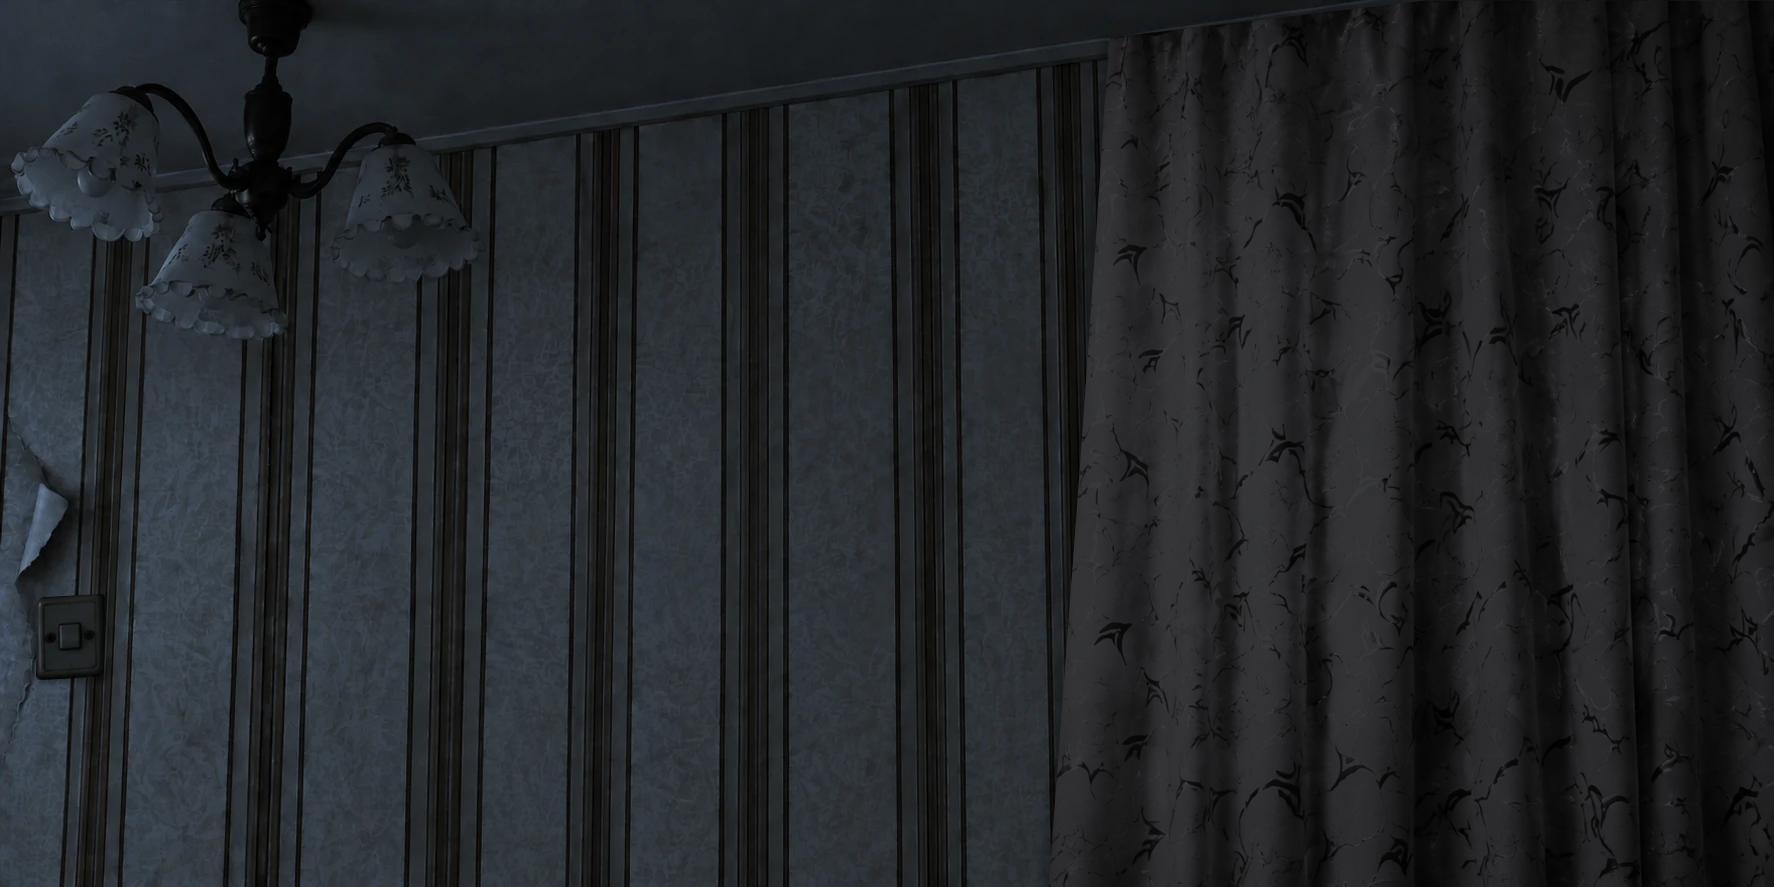
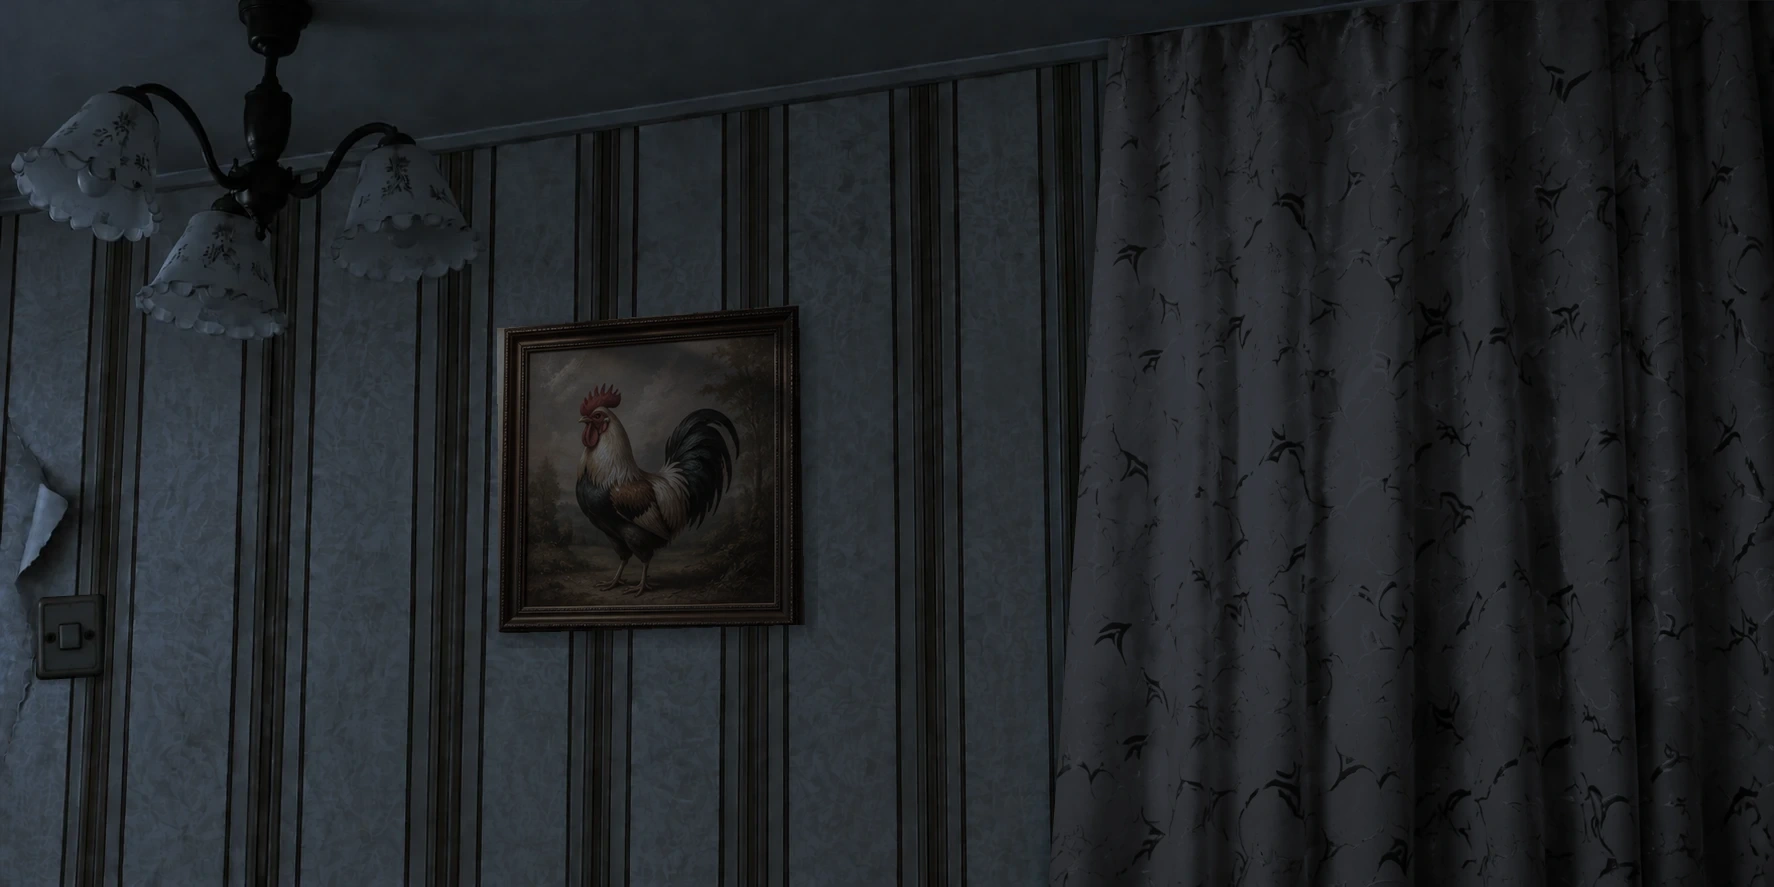
Integrate approved P2 room backgrounds

Changed region(s): [[0.279, 0.3348, 0.4651, 0.7306]]

diff --git a/css/site-wallpaper.css b/css/site-wallpaper.css
@@ -53,6 +53,4 @@ body[data-room-light="off"] .room-off{opacity:1}
 @media(max-width:360px){#home .home-index-header #index-main{font-size:88px}#forum-link .fl-filter-set{min-width:0;max-width:100%}#forum-link .fl-filters{flex-wrap:wrap}}
 @media(prefers-reduced-motion:reduce){.room-layer,.room-layer::before,.room-layer::after{transition:none}}
 
-/* Original switch plate follows the baked position; decorative pixels never intercept clicks. */
-.room-switch::before{content:"";position:absolute;left:50%;top:50%;transform:translate(-50%,-50%);width:4.17136415vw;height:4.90417136vw;pointer-events:none;background:url("./assets/switch-light-on.webp") center/100% 100% no-repeat}
-body[data-room-light="off"] .room-switch::before{background-image:url("./assets/switch-light-off.webp")}
+/* The approved photographs include the switch plate; use only the transparent hit area. */
